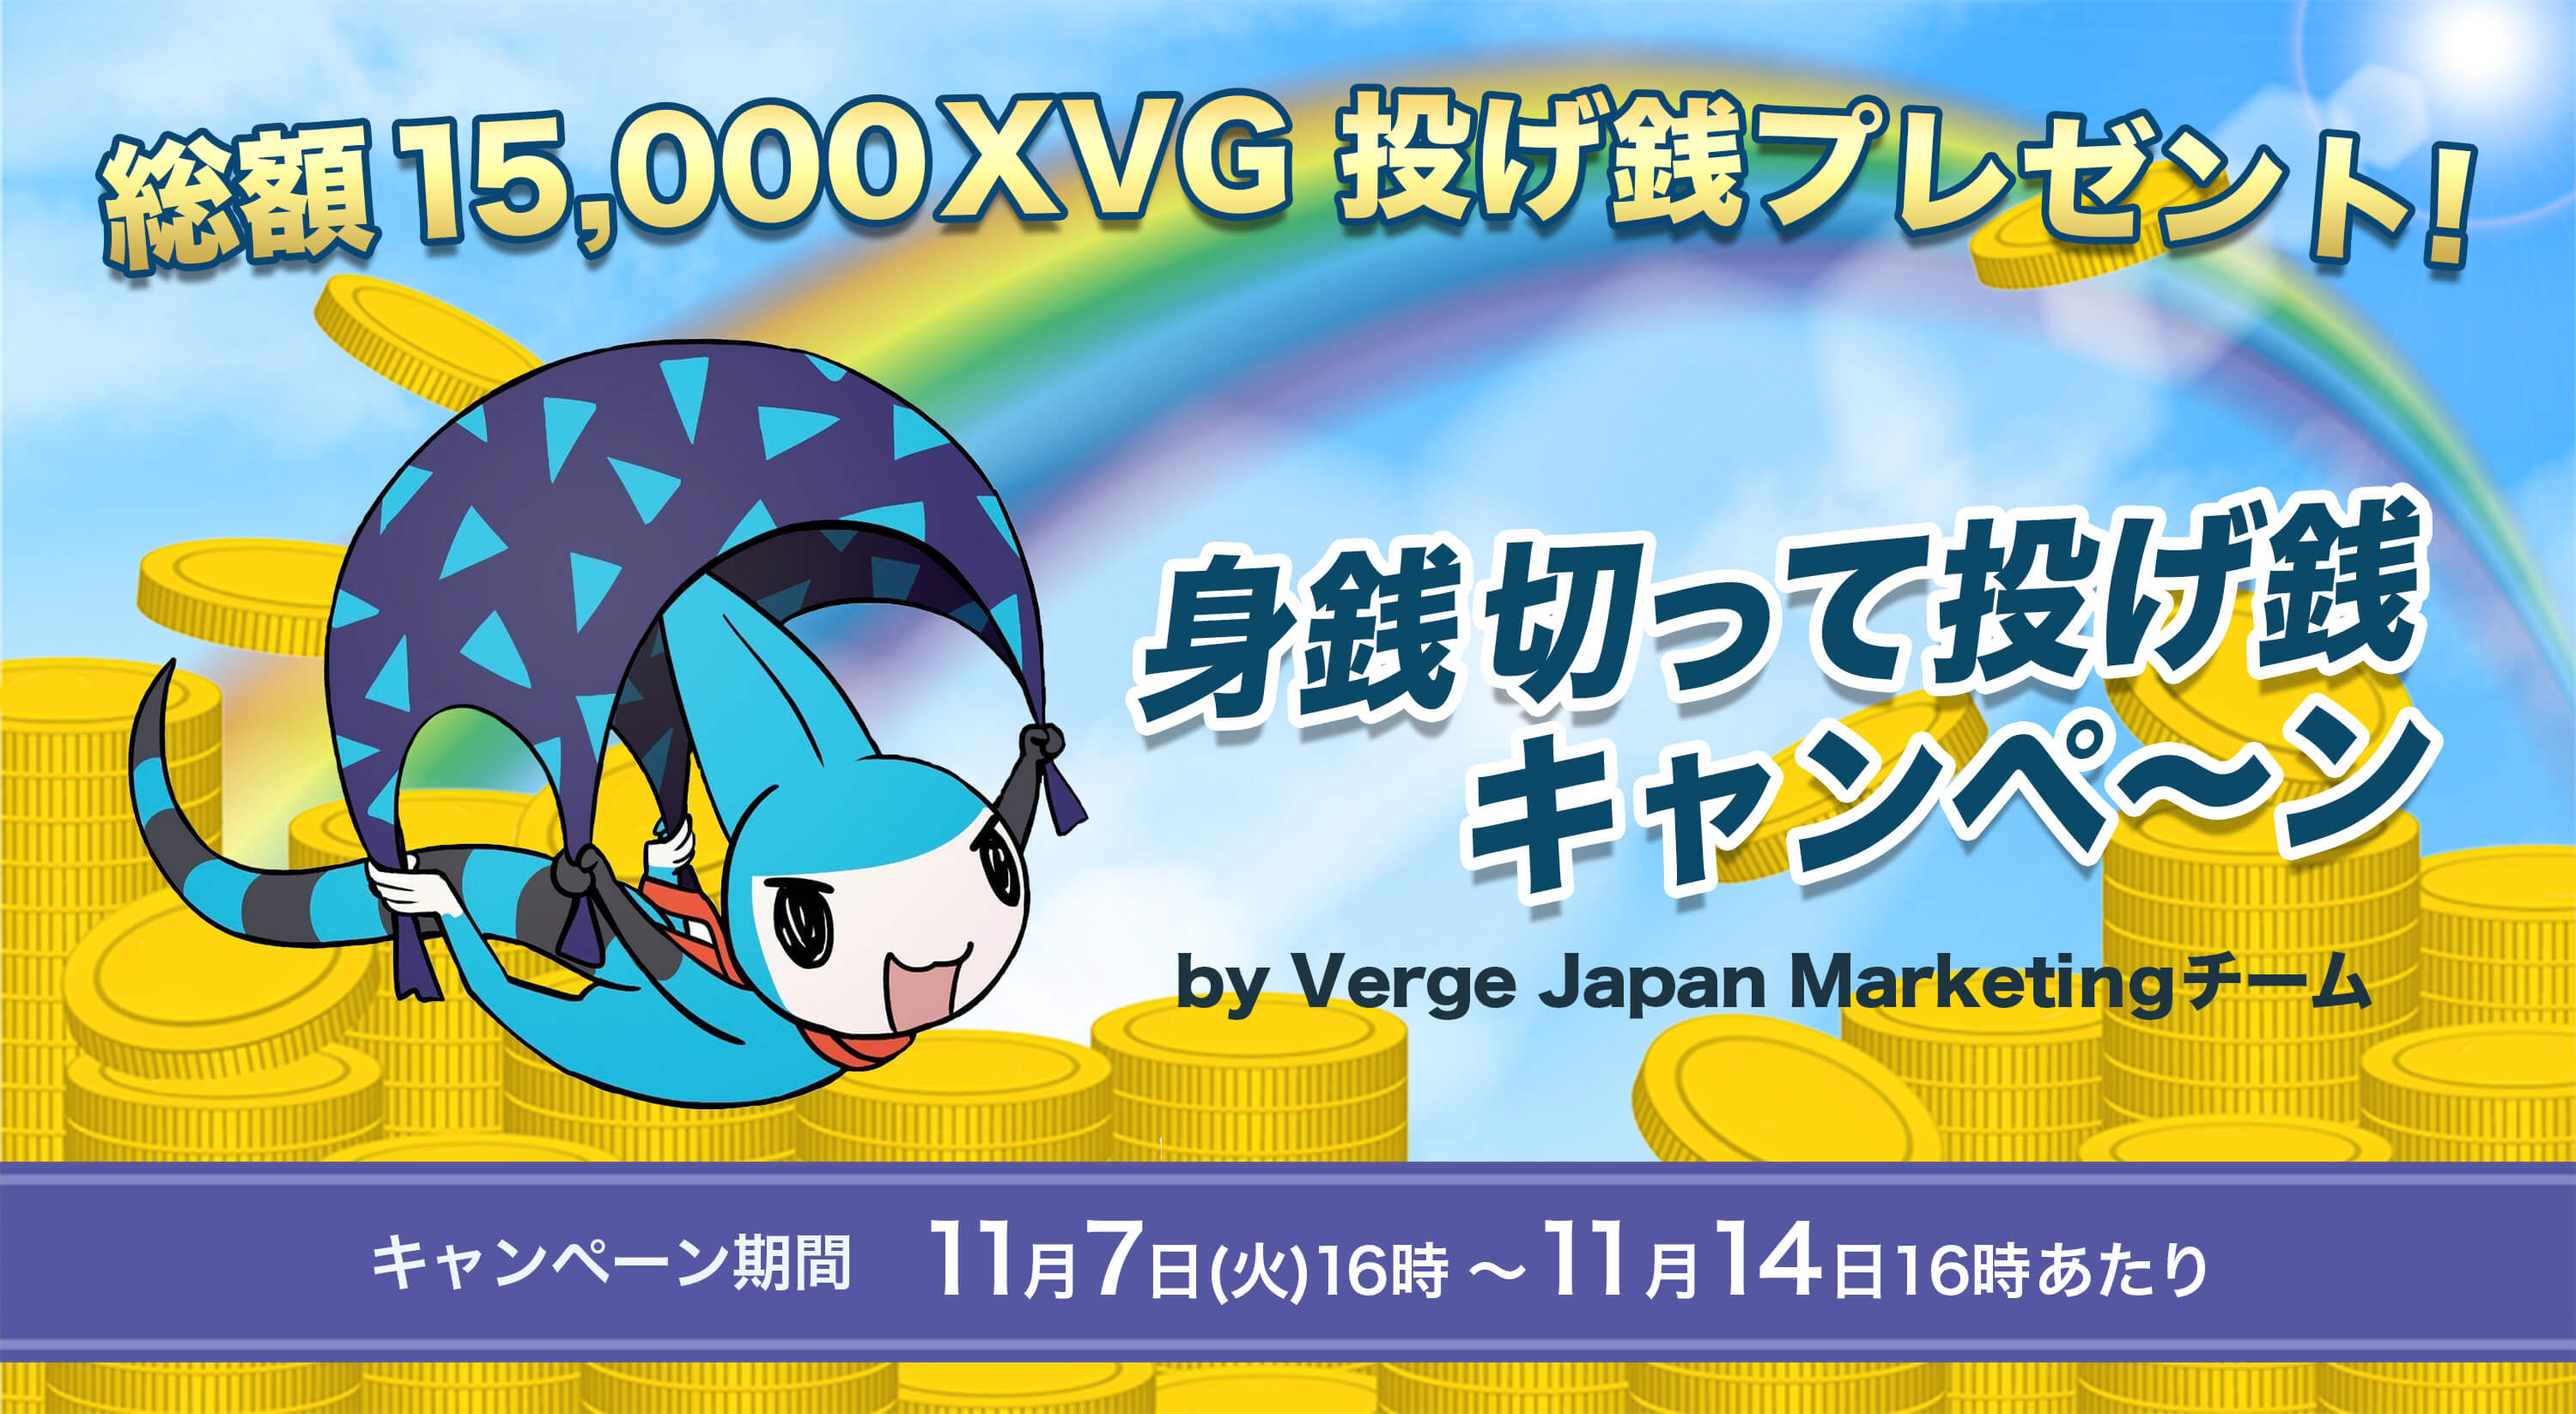
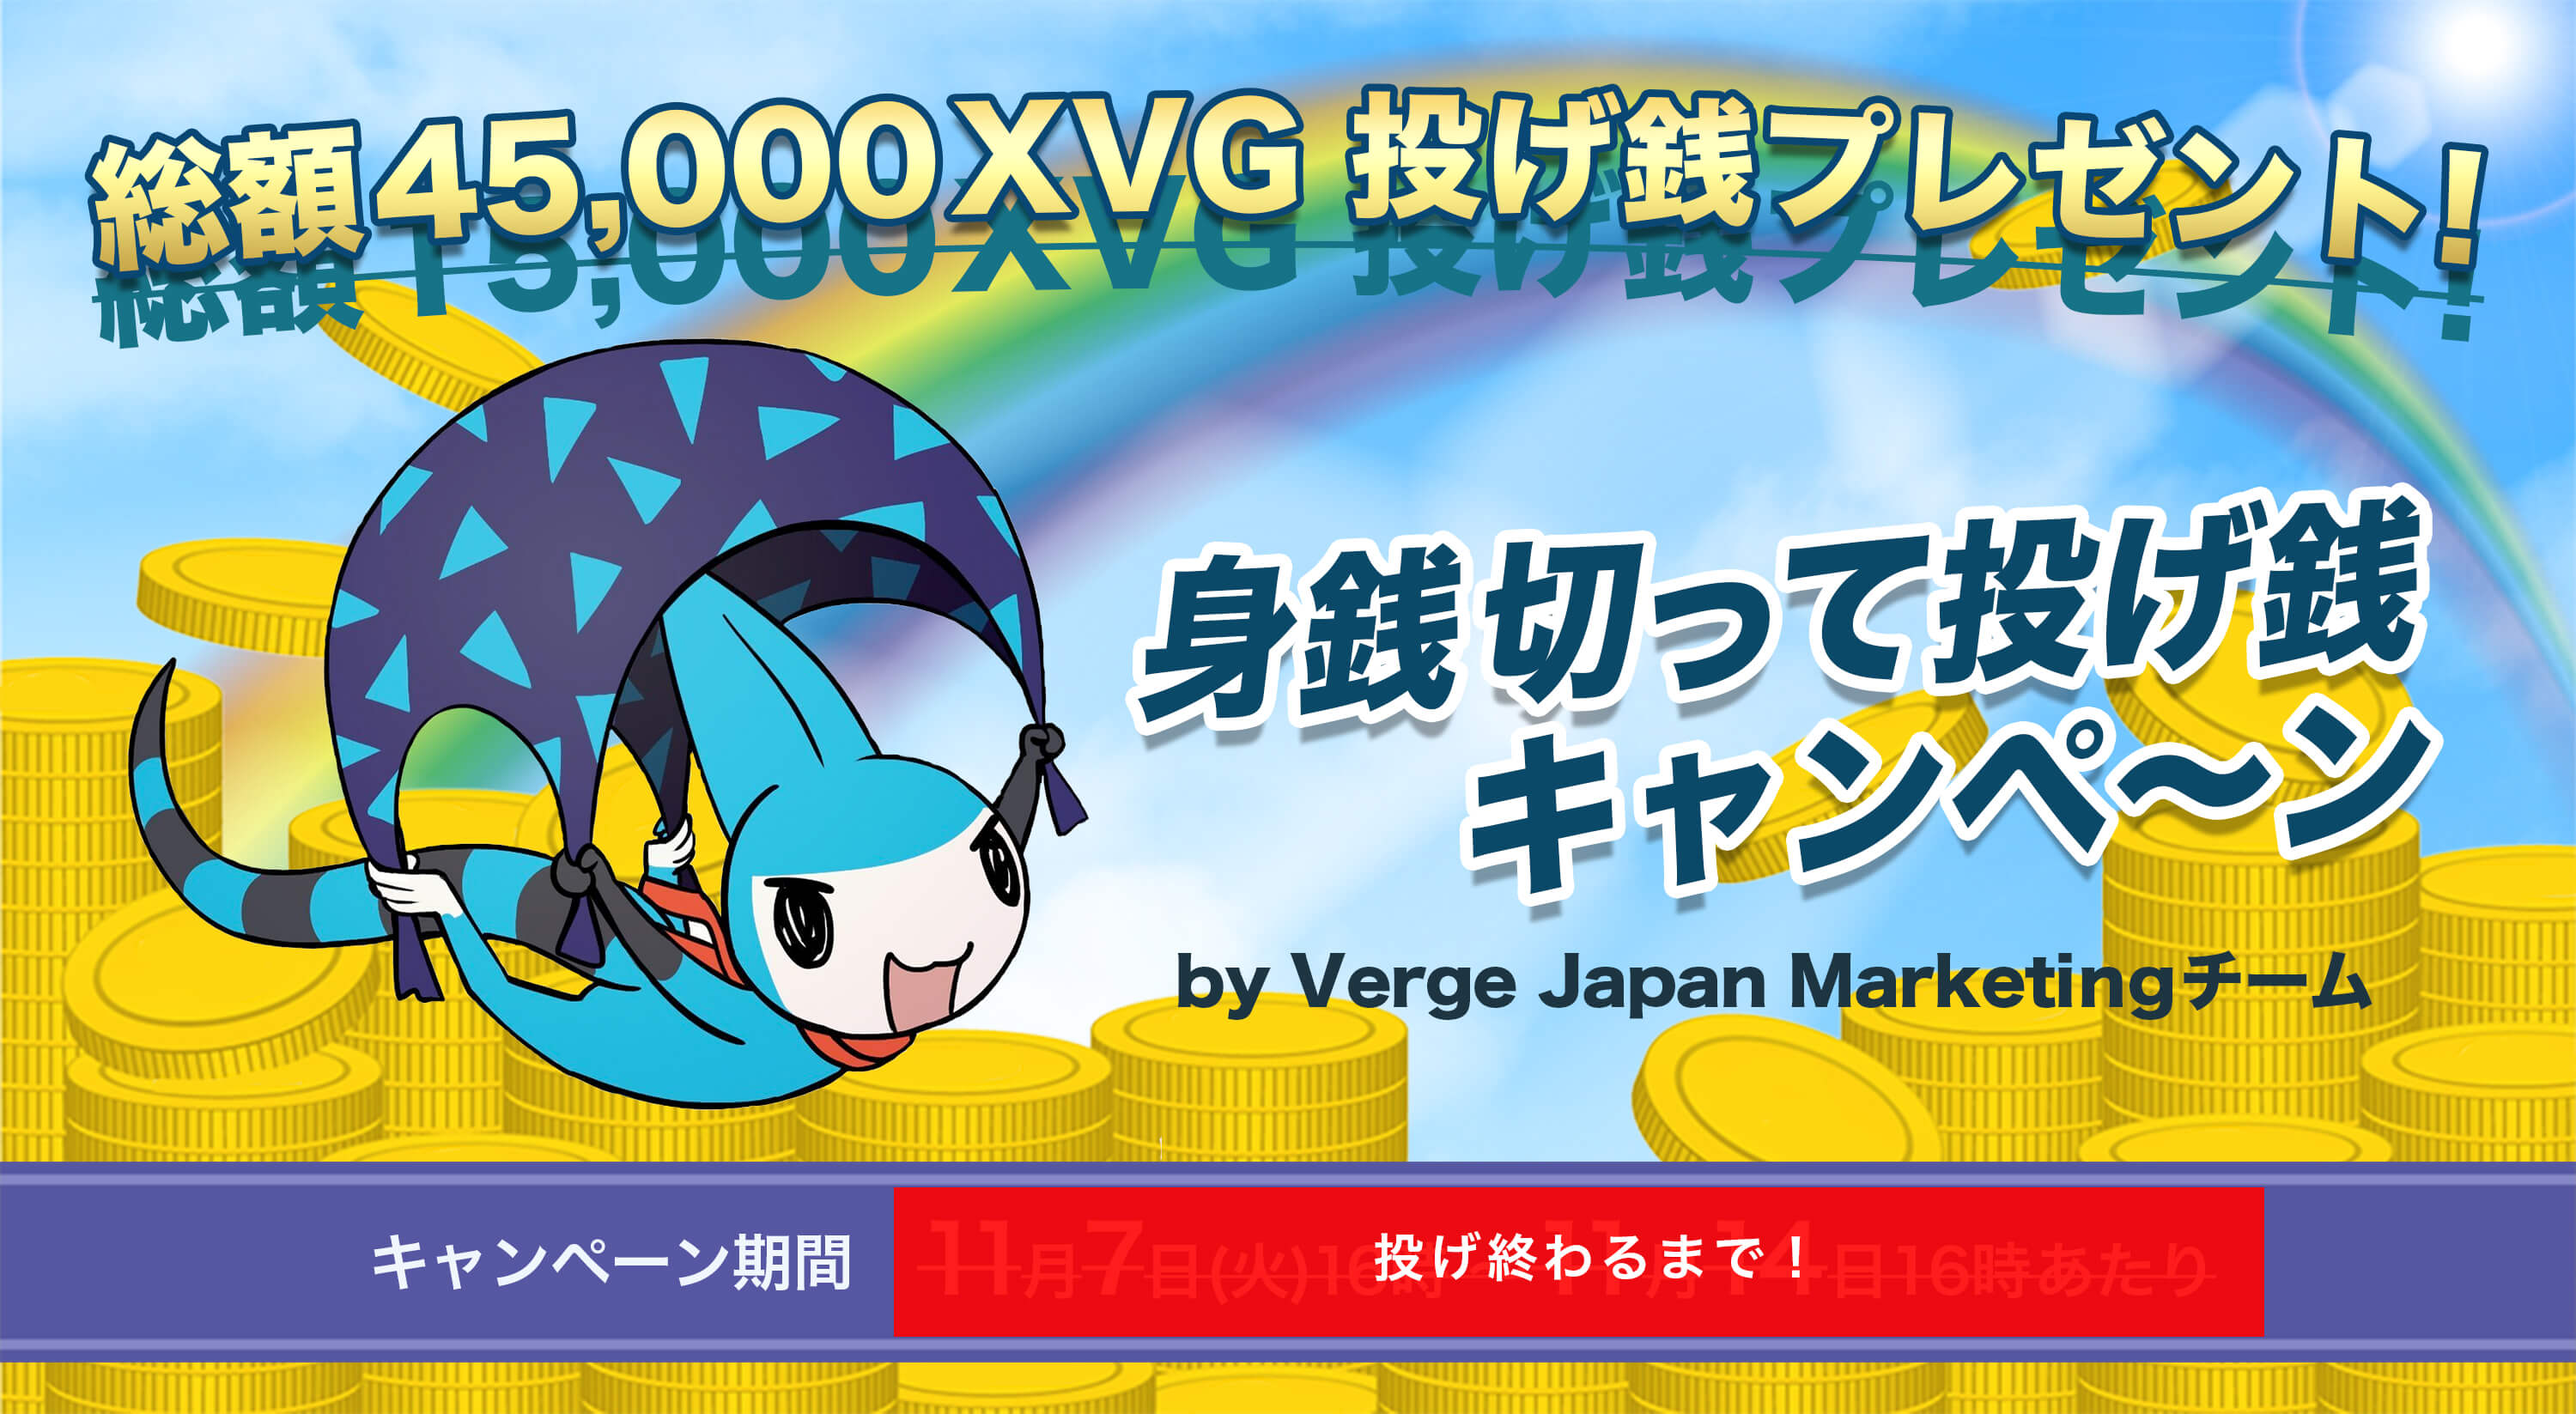
update

Changed region(s): [[0.031, 0.0619, 0.992, 0.2477], [0.341, 0.8361, 0.899, 0.9599]]

diff --git a/campaign/twitter201711/index.html b/campaign/twitter201711/index.html
@@ -6,17 +6,17 @@
     <meta name="viewport" content="width=device-width, initial-scale=1, minimum-scale=1, maximum-scale=1, user-scalable=no">
     <meta name="description" content="" />
     <meta name="keywords" content="" />
-    <title>総額15,000XVG 投げ銭プレゼント！</title>
-    <meta name="description" content="総額15,000XVG 投げ銭プレゼント！">
+    <title>総額45,000XVG 投げ銭プレゼント！</title>
+    <meta name="description" content="総額45,000XVG 投げ銭プレゼント！">
     <meta name="keywords" content="Vergeliscus,XVG,Verge">
     <meta name="google" value="notranslate">
     <link rel="shortcut icon" href="images/favicon.ico">
 
-    <meta property="og:title" content="総額15,000XVG 投げ銭プレゼント！" />
-    <meta property="og:description" content="総額15,000XVG 投げ銭プレゼント！" />
+    <meta property="og:title" content="総額45,000XVG 投げ銭プレゼント！" />
+    <meta property="og:description" content="総額45,000XVG 投げ銭プレゼント！" />
     <meta property="og:type" content="website" />
     <meta property="og:url" content="https://www.vergeliscus.com/campaign/twitter201711/" />
-    <meta property="og:image" content="https://www.vergeliscus.com/campaign/twitter201711/images/og_image.jpg" />
+    <meta property="og:image" content="https://www.vergeliscus.com/campaign/twitter201711/images/mv.jpg" />
     <meta property="og:locale" content="ja_JP" />
 
 
@@ -43,6 +43,26 @@
     <div class="wrap">
         <section class="mv" id="mv">
             <img src="images/mv.jpg" />
+            <div class="notification is-info">
+                <ul>
+                    <li>
+                        好評いただいた15,000XVG投げ銭キャンペーンはなんと3日で終わってしまいました。
+                        そこで、Verge公認Telegramの古株管理人CrypTomas（<a href="https://twitter.com/bitcoin_unnyou">@bitcoin_unnyou</a>）がなんとこのキャンペーンを継続させるために
+                        30,000XVGを寄付してくれました。感謝感激雨嵐！
+                    </li>
+                    <li>
+                        当キャンペーンの残り期間は、30,000XVGが終わるまでに変更されました！
+                    </li>
+                    <li>
+                        バージリスク君からの投げ銭のあと「@vergetips」からリプライが来るのが普通なのですが、
+                        時折システム負荷でリプライが止まってしまうことが発覚しました。ただし、バージリスク君のがんばりのおかげで、
+                        リプライがなくても、投げ銭できていました！「@vergetips balance」とつぶやいて確認してください。
+                    </li>
+                    <li>
+                        XVGは1日1度しかもらえません！毎日0時辺りからもらえるようになります！
+                    </li>
+                </ul>
+              </div>
         </section>
         
         <section class="section2">
